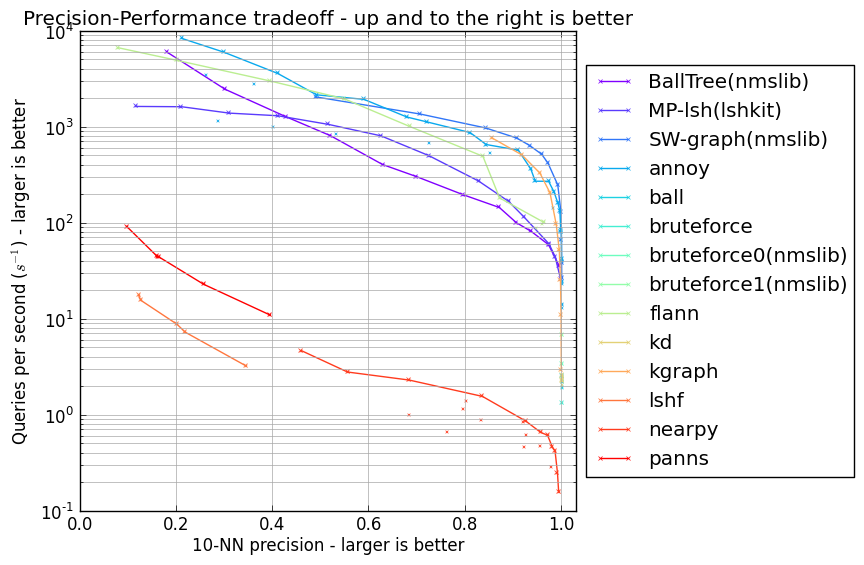
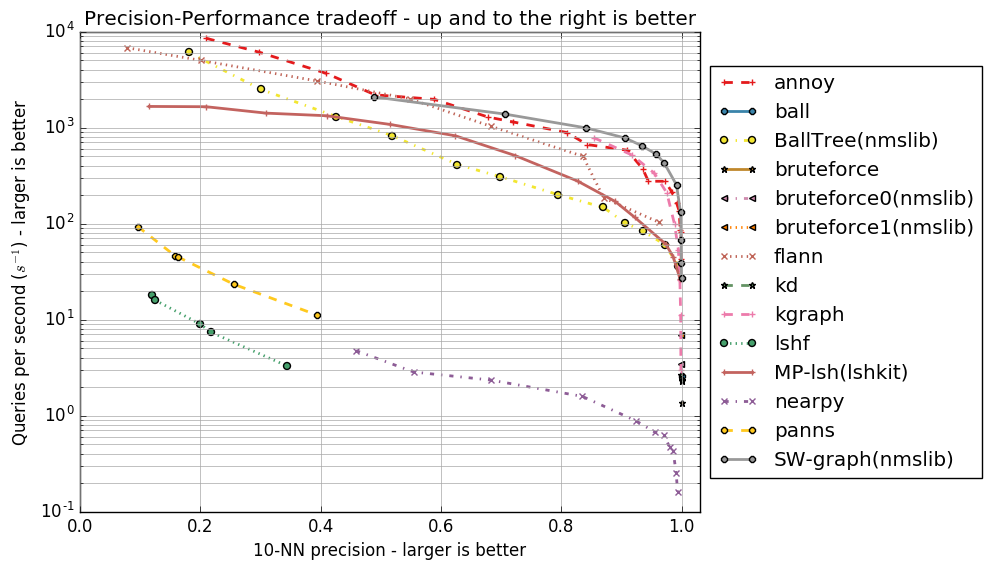
clearer plots

Changed region(s): [[0.0, 0.0, 1.0, 0.9929]]

diff --git a/plot.py b/plot.py
@@ -5,52 +5,62 @@ import matplotlib.pyplot as plt
 import argparse
 
 parser = argparse.ArgumentParser()
-parser.add_argument('--input', default='results/glove.txt')
-parser.add_argument('--output', default='results/glove.png')
+parser.add_argument('--input', action='append')
+parser.add_argument('--output', action='append')
 
 args = parser.parse_args()
 
-all_data = {}
+# Construct palette by reading all inputs
+all_algos = set()
+for fn in args.input:
+    for line in open(fn):
+        all_algos.add(line.strip().split('\t')[0])
 
-for line in open(args.input):
-    algo, algo_name, build_time, search_time, precision = line.strip().split('\t')
-    all_data.setdefault(algo, []).append((algo_name, float(build_time), float(search_time), float(precision)))
+colors = plt.cm.Set1(numpy.linspace(0, 1, len(all_algos)))
+linestyles = {}
+for i, algo in enumerate(all_algos):
+    linestyles[algo] = (colors[i], ['--', '-.', '-', ':'][i%4], ['+', '<', '8', 'o', '*', 'x'][i%6])
 
-colors = plt.cm.rainbow(numpy.linspace(0, 1, len(all_data)))
-handles = []
-labels = []
+# Now generate each plot
+for fn_in, fn_out in zip(args.input, args.output):
+    all_data = {}
 
-for algo, color in zip(sorted(all_data.keys()), colors):
-    data = all_data[algo]
-    data.sort(key=lambda t: t[-2]) # sort by time
-    ys = [1.0 / t[-2] for t in data] # queries per second
-    xs = [t[-1] for t in data]
-    ls = [t[0] for t in data]
-    plt.plot(xs, ys, 'x', label=algo, color=color, markersize=2)
-    #for i, l in enumerate(ls):
-    #    plt.annotate(ls[i], (xs[i], ys[i]), color='lightgray', fontsize=8)
+    for line in open(fn_in):
+        algo, algo_name, build_time, search_time, precision = line.strip().split('\t')
+        all_data.setdefault(algo, []).append((algo_name, float(build_time), float(search_time), float(precision)))
 
-    # Plot Pareto frontier
-    xs, ys = [], []
-    last_y = float('-inf')
-    for t in data:
-        y = t[-1]
-        if y > last_y:
-            last_y = y
-            xs.append(t[-1])
-            ys.append(1.0 / t[-2])
-    handle, = plt.plot(xs, ys, 'x-', label=algo, color=color, markersize=3)
-    handles.append(handle)
-    labels.append(algo)
+    handles = []
+    labels = []
 
-plt.gca().set_yscale('log')
-plt.gca().set_title('Precision-Performance tradeoff - up and to the right is better')
-plt.gca().set_ylabel('Queries per second ($s^{-1}$) - larger is better')
-plt.gca().set_xlabel('10-NN precision - larger is better')
-box = plt.gca().get_position()
-plt.gca().set_position([box.x0, box.y0, box.width * 0.8, box.height])
-plt.gca().legend(handles, labels, loc='center left', bbox_to_anchor=(1, 0.5))
-plt.grid(b=True, which='both', color='0.65',linestyle='-')
-plt.xlim([0.0, 1.03])
-plt.savefig(args.output, bbox_inches='tight')
+    plt.clf()
+    for algo in sorted(all_data.keys(), key=lambda x: x.lower()):
+        data = all_data[algo]
+        data.sort(key=lambda t: t[-2]) # sort by time
+        ys = [1.0 / t[-2] for t in data] # queries per second
+        xs = [t[-1] for t in data]
+        ls = [t[0] for t in data]
 
+        # Plot Pareto frontier
+        xs, ys = [], []
+        last_y = float('-inf')
+        for t in data:
+            y = t[-1]
+            if y > last_y:
+                last_y = y
+                xs.append(t[-1])
+                ys.append(1.0 / t[-2])
+        color, linestyle, marker = linestyles[algo]
+        handle, = plt.plot(xs, ys, '-', label=algo, color=color, ms=5, mew=1, lw=2, linestyle=linestyle, marker=marker)
+        handles.append(handle)
+        labels.append(algo)
+
+    plt.gca().set_yscale('log')
+    plt.gca().set_title('Precision-Performance tradeoff - up and to the right is better')
+    plt.gca().set_ylabel('Queries per second ($s^{-1}$) - larger is better')
+    plt.gca().set_xlabel('10-NN precision - larger is better')
+    box = plt.gca().get_position()
+    # plt.gca().set_position([box.x0, box.y0, box.width * 0.8, box.height])
+    plt.gca().legend(handles, labels, loc='center left', bbox_to_anchor=(1, 0.5))
+    plt.grid(b=True, which='both', color='0.65',linestyle='-')
+    plt.xlim([0.0, 1.03])
+    plt.savefig(fn_out, bbox_inches='tight')
